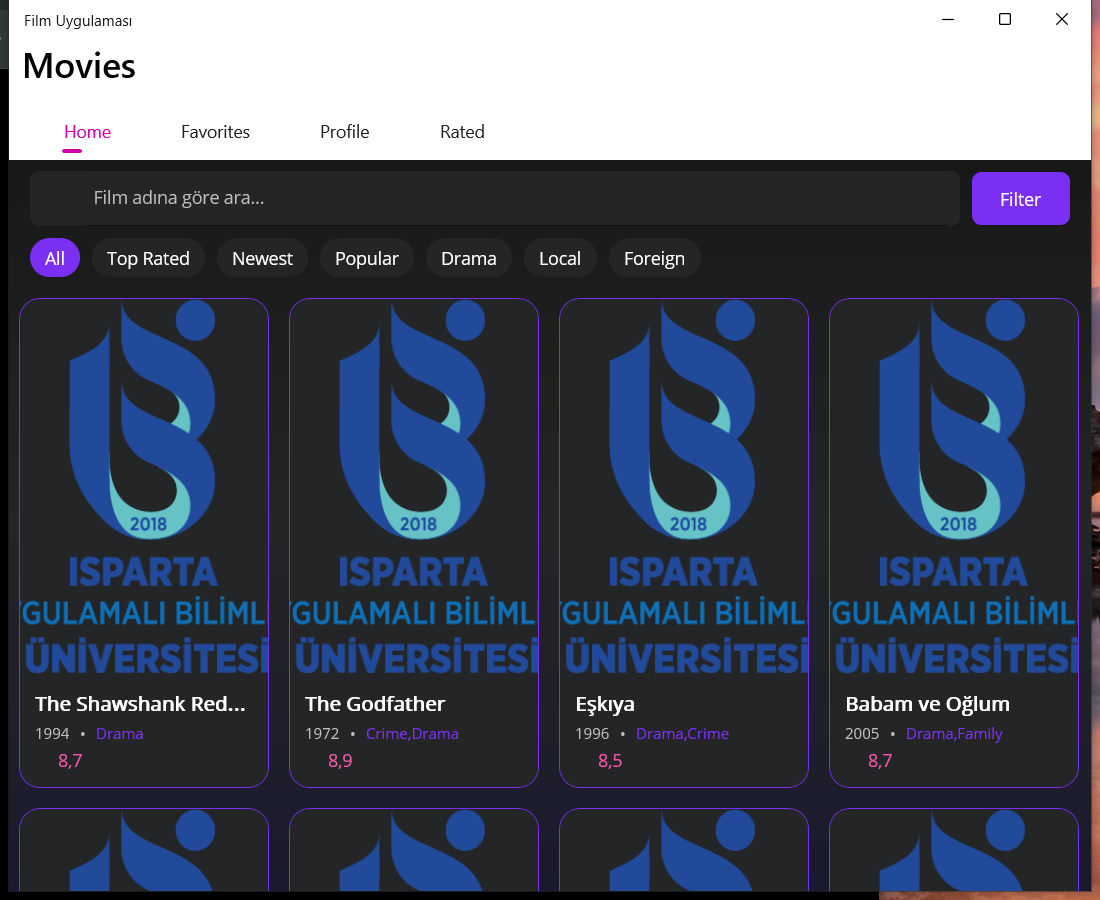
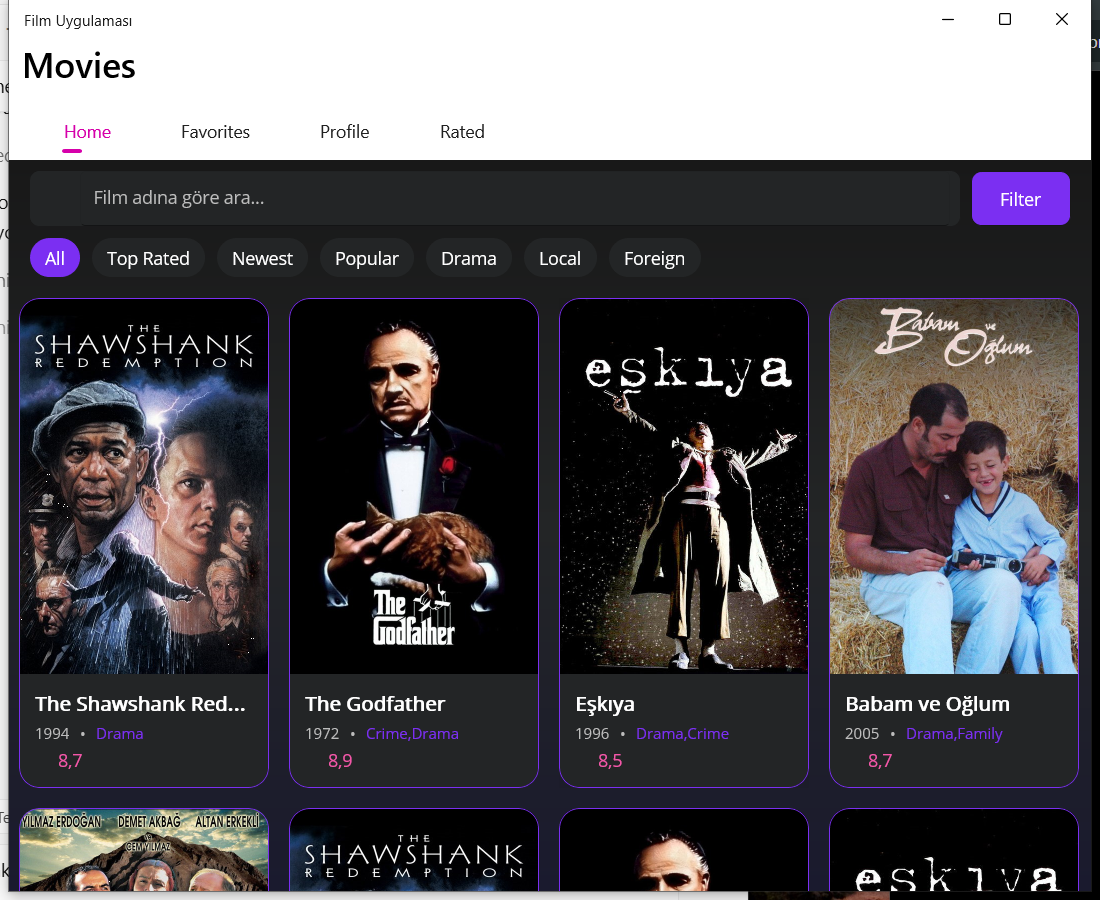
Refresh MAUI screenshots with real TMDB movie posters.

diff --git a/index.html b/index.html
@@ -8,7 +8,7 @@
   <link rel="preconnect" href="https://fonts.googleapis.com" />
   <link rel="preconnect" href="https://fonts.gstatic.com" crossorigin />
   <link href="https://fonts.googleapis.com/css2?family=DM+Sans:ital,opsz,wght@0,9..40,400;0,9..40,500;0,9..40,600;0,9..40,700;1,9..40,400&family=Instrument+Serif:ital@0;1&display=swap" rel="stylesheet" />
-  <link rel="stylesheet" href="styles.css?v=20260920maui" />
+  <link rel="stylesheet" href="styles.css?v=20260920posters" />
 </head>
 <body>
   <header class="site-header">
@@ -286,6 +286,6 @@
     <img alt="" />
   </div>
 
-  <script src="app.js?v=20260920maui"></script>
+  <script src="app.js?v=20260920posters"></script>
 </body>
 </html>
